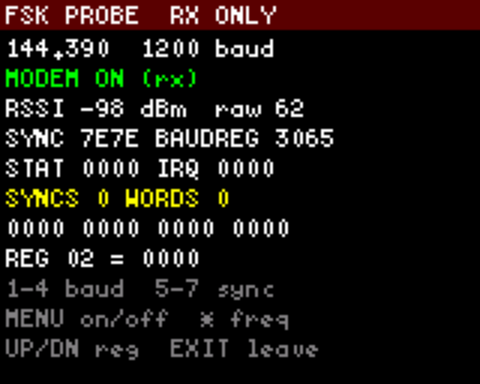
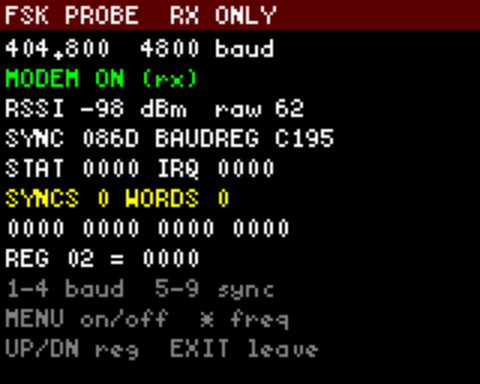
VFO entry limited to the receiver's range; SONDE group and channel; FSK PROBE in slot 8, preset for the RS41; AUDIT 39
- typed VFO frequencies outside 108-174 / 200-260 / 350-520 MHz are refused with a notice; 76-108 MHz points to the FM app
- SONDE group (7) and channels/sonde.csv (NWS Fort Worth, 404.800 MHz, receive-only)
- FSK PROBE replaces TEXT in launcher slot 8 (TEXT still built as an extra); starts on 404.800 MHz, 4800 baud,
  RS41 header sync in both bit orders
- AUDIT 39 also records that CI was red for nine pushes while locally built images were flashed

diff --git a/firmware/firmware-source/src/app/group_table.rs b/firmware/firmware-source/src/app/group_table.rs
@@ -13,8 +13,8 @@ pub(crate) struct ChanMode {
 pub(crate) const ALL: &[(u16, u16)] = &[(1, 1000)];
 
 /// In order of use to a ham. The index is the group's number: BAND then that digit selects it (0 = ALL; groups past 9
-/// have no digit). Slot ranges are the upstream channel plan's, plus 351-380 and 381-410 for the two new groups.
-pub(crate) const MODES: [ChanMode; 15] = [
+/// have no digit). Slot ranges are the upstream channel plan's, plus 351-380, 381-410 and 411-420 for the new groups.
+pub(crate) const MODES: [ChanMode; 16] = [
     ChanMode { name: "ALL", short: "ALL", ranges: ALL },
     ChanMode { name: "REPEATERS", short: "RPT", ranges: &[(234, 304), (327, 344)] },
     ChanMode { name: "SIMPLEX", short: "SMPLX", ranges: &[(351, 380)] },
@@ -22,6 +22,7 @@ pub(crate) const MODES: [ChanMode; 15] = [
     ChanMode { name: "FRS", short: "FRS", ranges: &[(305, 326)] },
     ChanMode { name: "MURS", short: "MURS", ranges: &[(345, 349)] },
     ChanMode { name: "SATELLITES", short: "SAT", ranges: &[(381, 410)] },
+    ChanMode { name: "SONDE", short: "SONDE", ranges: &[(411, 420)] },
     ChanMode { name: "WEATHER", short: "WX", ranges: &[(1, 7)] },
     ChanMode { name: "AIR TRAFFIC", short: "AIR", ranges: &[(168, 233)] },
     ChanMode { name: "RAILROAD", short: "RAIL", ranges: &[(158, 167)] },
@@ -105,6 +106,20 @@ pub(crate) fn band_name(freq_hz: u32) -> &'static str {
     ""
 }
 
+/// What the receiver covers (Hz, inclusive), from the radio's published ranges: the air band (AM), VHF, 1.25 m and
+/// UHF. The synthesizer tunes far wider (16-560 and 740-1120 MHz), but outside these the front end hears nothing.
+/// FM broadcast (76-108 MHz) is a separate tuner chip, reached through the FM app, not the VFO.
+pub(crate) const RX_BANDS: [(u32, u32); 3] = [
+    (108_000_000, 174_000_000),
+    (200_000_000, 260_000_000),
+    (350_000_000, 520_000_000),
+];
+pub(crate) const FM_BROADCAST: (u32, u32) = (76_000_000, 108_000_000);
+
+pub(crate) fn rx_allowed(freq_hz: u32) -> bool {
+    RX_BANDS.iter().any(|&(lo, hi)| (lo..=hi).contains(&freq_hz))
+}
+
 #[cfg(test)]
 mod tests {
     use super::*;
@@ -117,7 +132,9 @@ mod tests {
         assert_eq!(group_pos(1, 326), Some(72)); // printed 327, first of the second range
         assert_eq!(group_pos(1, 0), None);
         assert_eq!(group_pos(0, 233), Some(234)); // ALL: the printed number
-        assert_eq!(group_pos(7, 0), Some(1)); // WEATHER
+        assert_eq!(MODES[8].name, "WEATHER");
+        assert_eq!(group_pos(8, 0), Some(1)); // WEATHER
+        assert_eq!(group_pos(7, 410), Some(1)); // SONDE starts at printed 411
         assert_eq!(group_pos(2, 350), Some(1)); // SIMPLEX starts at printed 351
         assert_eq!(group_pos(6, 380), Some(1)); // SATELLITES starts at printed 381
     }
@@ -143,6 +160,16 @@ mod tests {
         assert_eq!(scan_band(300_250_000), (300_000_000, 301_000_000)); // no listed band: the megahertz it is in
         assert_eq!(band_name(146_520_000), "2M");
         assert_eq!(band_name(300_250_000), "");
+    }
+
+    #[test]
+    fn typed_vfo_frequencies_are_limited_to_what_the_receiver_covers() {
+        for ok in [118_000_000, 146_520_000, 223_500_000, 404_800_000, 446_000_000, 520_000_000] {
+            assert!(rx_allowed(ok), "{ok}");
+        }
+        for no in [16_000_000, 50_000_000, 100_100_000, 107_999_999, 300_000_000, 560_000_000, 900_000_000] {
+            assert!(!rx_allowed(no), "{no}");
+        }
     }
 }
 

diff --git a/firmware/firmware-source/apps/fskprobe/src/logic.rs b/firmware/firmware-source/apps/fskprobe/src/logic.rs
@@ -53,9 +53,20 @@ const PEEK: [u8; 14] = [
 ];
 
 /// Frequencies in Hz: APRS, 2 m calling, 70 cm calling, Horus 70 cm.
-const FREQS: [u32; 4] = [144_390_000, 146_520_000, 446_000_000, 434_714_000];
+/// 404.800 is the Fort Worth NWS radiosonde frequency (the owner's local launch site); the others are test signals.
+const FREQS: [u32; 5] = [404_800_000, 144_390_000, 146_520_000, 446_000_000, 434_714_000];
 const BAUDS: [u16; 4] = [450, 1200, 2400, 4800];
-const SYNCS: [u16; 3] = [0x7E7E, 0x2DD4, 0xAAAA];
+/// Sync word presets, as the two 16-bit halves written to the chip (keys 5-9). The last two are the first four bytes
+/// of the RS41 radiosonde frame header: on the air the bits are 00001000 01101101 01010011 10001000, which is 0x086D
+/// 0x5388 if the chip shifts each byte most-significant bit first and 0x10B6 0xCA11 if least-significant first.
+/// Which one the chip uses is one of the things this app is for.
+const SYNCS: [(u16, u16); 5] = [
+    (0x7E7E, 0x7E7E),
+    (0x2DD4, 0x2DD4),
+    (0xAAAA, 0xAAAA),
+    (0x086D, 0x5388),
+    (0x10B6, 0xCA11),
+];
 
 /// REG_72 (TONE2/FSK frequency control word) = baud * 10.32444 for a 13/26 MHz crystal, * 10.48576 for 12.8/19.2/25.6/38.4 MHz
 /// (datasheet). TEXT writes 4646 for 450 baud, which is exactly 450 * 10.32444, so a 13/26 MHz crystal is assumed.
@@ -109,9 +120,9 @@ pub fn entry(api: &Api, ev: AppEvent) -> AppResult {
 }
 
 const STATE_DEFAULT: State = State {
-    freq: 0,
-    baud: 1,
-    sync: 0,
+    freq: 0, // radiosonde frequency
+    baud: 3, // 4800: the RS41's speed
+    sync: 3, // RS41 header, most-significant bit first
     running: false,
     peek: 0,
     syncs: 0,
@@ -142,8 +153,8 @@ fn modem_on(api: &Api, s: &mut State) {
     w(api, R_GAIN, (1 << 7) | 96);
     w(api, R_BAUD, baud_reg(BAUDS[s.baud]));
     w(api, R_FSK, 0x0301);
-    w(api, R_SYNC1, SYNCS[s.sync]);
-    w(api, R_SYNC2, SYNCS[s.sync]);
+    w(api, R_SYNC1, SYNCS[s.sync].0);
+    w(api, R_SYNC2, SYNCS[s.sync].1);
     w(api, R_CRC, 0x5625);
     w(api, R_SIZE, 64u16 << 8);
     w(api, R_THRESH, (1 << 3) | 1);
@@ -200,11 +211,11 @@ fn key(api: &Api, id: u8, kind: u8) -> AppResult {
                 w(api, R_BAUD, baud_reg(BAUDS[s.baud]));
             }
         }
-        5..=7 => {
+        5..=9 => {
             s.sync = (id - 5) as usize;
             if s.running {
-                w(api, R_SYNC1, SYNCS[s.sync]);
-                w(api, R_SYNC2, SYNCS[s.sync]);
+                w(api, R_SYNC1, SYNCS[s.sync].0);
+                w(api, R_SYNC2, SYNCS[s.sync].1);
             }
         }
         _ => return AppResult::Continue,
@@ -267,7 +278,7 @@ fn draw(api: &Api, s: &mut State) {
 
     n = 0;
     n = put(&mut b, n, b"SYNC ");
-    n = put_hex(&mut b, n, SYNCS[s.sync]);
+    n = put_hex(&mut b, n, SYNCS[s.sync].0);
     n = put(&mut b, n, b" BAUDREG ");
     n = put_hex(&mut b, n, baud_reg(BAUDS[s.baud]));
     line(api, 4, &b[..n], WHITE);
@@ -303,7 +314,7 @@ fn draw(api: &Api, s: &mut State) {
     n = put_hex(&mut b, n, (api.rf_reg_read)(reg));
     line(api, 8, &b[..n], WHITE);
 
-    line(api, 9, b"1-4 baud  5-7 sync", GRAY);
+    line(api, 9, b"1-4 baud  5-9 sync", GRAY);
     line(api, 10, b"MENU on/off  * freq", GRAY);
     line(api, 11, b"UP/DN reg  EXIT leave", GRAY);
 }

diff --git a/firmware/firmware-source/src/app/side_ops.rs b/firmware/firmware-source/src/app/side_ops.rs
@@ -96,12 +96,25 @@ pub(super) fn commit_input(app: &mut App, syst: &mut SYST) {
             }
         }
         ChVfoMode::Vfo => {
-            let s = &mut app.sides[app.master];
-            s.rx_freq_hz = value * 1000;
-            s.auto_modulation();
-            s.refresh_cfg_freqs();
-            app.save_vfo();
-            sync_watching_to_master(app, syst);
+            // Only what the receiver covers. The synthesizer would tune almost anything, which looked as if the
+            // radio could receive there; FM broadcast is a different tuner, reached through the FM app.
+            let hz = value.saturating_mul(1000);
+            if super::group_table::rx_allowed(hz) {
+                let s = &mut app.sides[app.master];
+                s.rx_freq_hz = hz;
+                s.auto_modulation();
+                s.refresh_cfg_freqs();
+                app.save_vfo();
+                sync_watching_to_master(app, syst);
+            } else {
+                let fm = super::group_table::FM_BROADCAST;
+                app.notice_kind = if (fm.0..fm.1).contains(&hz) {
+                    super::NOTICE_FM_BROADCAST
+                } else {
+                    super::NOTICE_OUT_OF_RANGE
+                };
+                app.no_channels_ticks = NO_CHANNELS_HOLD_TICKS;
+            }
         }
     }
     app.input.clear();
@@ -132,6 +145,7 @@ pub(super) fn toggle_vfo_channel(app: &mut App, syst: &mut SYST) {
             if let Some(num) = num {
                 load_channel_num(app, num);
             } else {
+                app.notice_kind = super::NOTICE_NO_CHANNELS;
                 app.no_channels_ticks = NO_CHANNELS_HOLD_TICKS;
             }
         }
@@ -215,6 +229,7 @@ pub(super) fn refresh_channel_display(app: &mut App, num: u16) {
                 app.sides[i].load_channel(next, &ch);
             } else {
                 app.sides[i].restore_vfo_from_backup();
+                app.notice_kind = super::NOTICE_NO_CHANNELS;
                 app.no_channels_ticks = NO_CHANNELS_HOLD_TICKS;
             }
         } else {

diff --git a/firmware/firmware-source/src/app/mod.rs b/firmware/firmware-source/src/app/mod.rs
@@ -1,3 +1,8 @@
+/// Amber notices on the main screen (`App::notice_kind`).
+pub(crate) const NOTICE_NO_CHANNELS: u8 = 0;
+pub(crate) const NOTICE_OUT_OF_RANGE: u8 = 1;
+pub(crate) const NOTICE_FM_BROADCAST: u8 = 2;
+
 /// Reasons a PTT press is refused (`App::tx_block`).
 pub(crate) const TX_BLOCK_INHIBIT: u8 = 1;
 pub(crate) const TX_BLOCK_RX_ONLY: u8 = 2;
@@ -160,6 +165,8 @@ pub struct App<'a> {
     /// The running app was opened from the APPS list (EXIT goes back to it) and not by a key (EXIT goes to the
     /// main screen).
     app_from_menu: bool,
+    /// What the amber notice on the main screen says while `no_channels_ticks` runs (`NOTICE_*`).
+    notice_kind: u8,
     dual_standby: bool,
     dual_hold_ticks: u16,
     tot_ticks: u16,
@@ -366,6 +373,7 @@ impl<'a> App<'a> {
             details: [[0; flash_map::addr::CHAN_DETAIL_LEN]; 2],
             detail_of: [u16::MAX; 2],
             app_from_menu: false,
+            notice_kind: 0,
             flashlight,
             dual_standby: settings.dual_standby,
             dual_hold_ticks: DUAL_STANDBY_HOLD_TICKS,
@@ -842,6 +850,9 @@ impl<'a> App<'a> {
 
     pub fn no_channels_notice(&self) -> bool {
         self.no_channels_ticks > 0
+    }
+    pub fn notice_kind(&self) -> u8 {
+        self.notice_kind
     }
 
     pub fn poll_blink(&mut self) {

diff --git a/firmware/tools/build_release.py b/firmware/tools/build_release.py
@@ -11,8 +11,11 @@ import json, os, subprocess, sys
 from provenance import PACKAGES, SRC
 
 LAYOUT = ["settings.app", "chanmgr.app", "searchqt.app", "spectrum.app", "bandsweep.app",
-          "foxhunt.app", "rptfinder.app", "text.app", "fm.app"]          # launcher slots 1-9, as setup_radio.py
-EXTRAS = {"hamtools.app": ("HAM TOOLS", ["apps/hamtools"]), "fskprobe.app": ("FSK PROBE", ["apps/fskprobe"])}
+          "foxhunt.app", "rptfinder.app", "fskprobe.app", "fm.app"]      # launcher slots 1-9
+# Slot 8 was TEXT (which transmits acknowledgements on its own and needs a second radio); it is FSK PROBE while the
+# radio's modem is being characterised (AUDIT 39). TEXT is still built, as an extra.
+EXTRAS = {"hamtools.app": ("HAM TOOLS", ["apps/hamtools"]), "text.app": PACKAGES["text.app"]}
+PACKAGES = dict(PACKAGES, **{"fskprobe.app": ("FSK PROBE", ["apps/fskprobe"])})
 
 
 def main():

diff --git a/firmware/firmware-source/src/ui/standby.rs b/firmware/firmware-source/src/ui/standby.rs
@@ -283,7 +283,11 @@ where
         draw_overlay(lcd, why, ALERT);
     } else if app.no_channels_notice() {
         // Name the group: with a group other than ALL selected, channels outside its number range are skipped.
-        if app.chan_mode_index() == 0 {
+        if app.notice_kind() == app::NOTICE_OUT_OF_RANGE {
+            draw_overlay(lcd, "OUT OF RX RANGE", AMBER);
+        } else if app.notice_kind() == app::NOTICE_FM_BROADCAST {
+            draw_overlay(lcd, "BROADCAST: USE FM APP", AMBER);
+        } else if app.chan_mode_index() == 0 {
             draw_overlay(lcd, "NO CHANNELS", AMBER);
         } else {
             let mut label: TextBuf<16> = TextBuf::new();

diff --git a/firmware/firmware-source/src/app/modes.rs b/firmware/firmware-source/src/app/modes.rs
@@ -132,7 +132,10 @@ fn select(app: &mut App, syst: &mut SYST, index: usize, then_scan: bool) {
             side_ops::load_channel_num(app, num);
             app.save_channel_state();
         }
-        None => app.no_channels_ticks = NO_CHANNELS_HOLD_TICKS,
+        None => {
+            app.notice_kind = super::NOTICE_NO_CHANNELS;
+            app.no_channels_ticks = NO_CHANNELS_HOLD_TICKS;
+        }
     }
     app.sync_watching_to_master(syst);
     play_mode_cue(app, syst);

diff --git a/firmware/tests/test_channel_plan.py b/firmware/tests/test_channel_plan.py
@@ -149,7 +149,8 @@ class Groups(unittest.TestCase):
         self.assertEqual(g["FED & GOV"][1], "FED")
         self.assertEqual(g["SIMPLEX"][2], [(351, 380)])
         self.assertEqual(g["SATELLITES"][1:], ("SAT", [(381, 410)]))
-        self.assertEqual(len(g), 15)
+        self.assertEqual(g["SONDE"][2], [(411, 420)])
+        self.assertEqual(len(g), 16)
 
     def test_unparseable_table_fails_clearly(self):
         with tempfile.TemporaryDirectory() as d:

diff --git a/AUDIT.md b/AUDIT.md
@@ -57,4 +57,5 @@ Tools: `firmware/tools/verify_release.py` (offline release gate), `.github/workf
 | 36 | **Channel groups reordered by use to a ham and numbered; SIMPLEX and SATELLITES added (built, not yet on the radio).** Order: 0 ALL, 1 REPEATERS, 2 SIMPLEX, 3 GMRS, 4 FRS, 5 MURS, 6 SATELLITES, 7 WEATHER, 8 AIR TRAFFIC, 9 RAILROAD, then POLICE FIRE EMS, FED & GOV, UTILITIES, FRS GMRS MURS, CUSTOM RANGE. The group menu numbers its rows and BAND then a digit selects the group; CHAN MGR's title is `GROUP 1: REPEATERS`. New slot ranges 351-380 (SIMPLEX) and 381-410 (SATELLITES); the others are unchanged, so channels already on the radio keep their groups. The stored group index changes meaning (the radio was on REPEATERS = old 7, which is now WEATHER): pick the group again once. `channels/simplex.csv`: the national FM calling frequencies (146.520, 223.500, 446.000), the ARRL band-plan 2 m simplex channels, and 144.390 APRS receive-only; the two calling channels moved out of `repeaters.csv`. `channels/satellites.csv`: ISS repeater, SO-50 (with its 74.4 Hz arming channel) and AO-123, five Doppler steps each on the 70 cm side, plus ISS packet and crew downlink (receive-only), AO-91 and PO-101; frequencies and tones from AMSAT's FM satellite summary (page dated 2026-10-31). `channel_plan.py` now honours CHIRP `split` (Offset = transmit frequency), needed for cross-band satellites. 114 channels build. | Open: unseen on the radio; satellite status changes (AO-91 sunlit only, PO-101 by schedule and failing, per AMSAT) and nothing here has been tried on a pass; the open firmware's handling of a channel whose TX is on another band is untested on hardware; 2 m simplex channel spacing varies by region |
 | 37 | **Fifth flash (`54508f7`) and a data-loss bug in `restore_backup.py`, found on the radio and fixed (2026-11-11).** Flash, calibration (identical), CHAN MGR and the extras table were fine. The channel load reported `FINAL VERIFY FAILED at channel 233` and left the radio without 44 channels it should have had (among them K5RWK and other repeaters, FRS, GMRS and MURS). **Cause:** the firmware erases a channel's whole 4 KB flash sector (128 channels) the first time a programming session writes into it and then stores only what it is sent (`storage.rs write_channel`); the tool sent only the records that differed, so unchanged channels sharing a sector with a changed one were erased. The first load of the evening passed only because nearly every stored channel in each touched sector was being rewritten. The fake radio stored single records and never erased, so 14 tests passed against behaviour the hardware does not have. **Fix:** the tool writes every channel the image has in any sector it touches; the fake radio now erases a sector on the first write of a session, and the previous tool fails against it. The radio was repaired with the fixed tool: 44 records restored (92 written), all 1000 verified through the port; the state before the repair is saved. Nothing was lost: the image on the host was complete. Also loaded in this pass: the reordered repeaters (K5RWK, W5FC, W5NGU, K5PRK, W5EBQ first), SIMPLEX and SATELLITES: 115 channels. | Open: the tool's per-record rollback message ("putting the old contents back") is not accurate under sector erase; an interrupted load leaves a touched sector partly written until the tool is run again (it is safe to re-run). Third time tonight that a fake or the simulator was more forgiving than the hardware (app load address, list backdrop, sector erase): each fake should be checked against the firmware source it stands in for |
 | 38 | **Each side (A and B) has its own channel group (found on the radio; built, not yet flashed).** The group was one value for the whole radio, so after choosing a group on the top side, switching to the bottom side with A/B and scanning ran the top side's group. Now the group belongs to the side it was chosen on: A/B brings that side's group into force for stepping, typed channel numbers and scanning, each side's channel number is shown relative to its own group, and both are saved (side B in byte 12 of the record that already holds side A's). | Open: unseen until flashed. Dual watch and the code that repairs a side after its channel is deleted still consult only the active side's group |
+| 39 | **CI was red for nine pushes and I flashed locally built images meanwhile; VFO range; SONDE group; FSK PROBE in the launcher (2026-11-11/12).** (1) `build_core.sh`'s arena check (row 31) called `rust-nm`, which CI has on PATH only in the overlay step, so the `verify` job failed from `ef37606` to `9177d71` and nobody looked. The cores flashed in that window (`ef37606`, `7c9ea33`, `54508f7`, `cf9408d`) were built in the local amd64 container; each matched its pin, but the pin came from the same local build. This broke the rule to flash only CI-built images. Fixed in `8d8cb15` (the script also accepts `llvm-nm`; the step adds the shim to PATH). (2) Sixth flash, `cf9408d`: per-side channel groups confirmed by the owner. (3) Found on the radio: a typed VFO frequency was accepted anywhere the synthesizer tunes (16-560, 740-1120 MHz), as if the radio could receive there. Typed frequencies are now limited to 108-174, 200-260 and 350-520 MHz (the radio's published receive ranges; the air band still switches to AM); anything else shows `OUT OF RX RANGE`, and 76-108 MHz shows `BROADCAST: USE FM APP`, because FM broadcast is a separate tuner chip. (4) New group SONDE (7, slots 411-420; WEATHER, AIR TRAFFIC and RAILROAD move to 8, 9 and no digit) with `channels/sonde.csv`: the NWS Fort Worth radiosonde, 404.800 MHz, receive-only. (5) FSK PROBE takes launcher slot 8 from TEXT (still built as an extra) and now starts on 404.800 MHz at 4800 baud with the RS41 frame header as its sync word, in both bit orders (keys 8 and 9). | Open: the receive ranges are from the published specification, not measured on this radio; UP/DOWN and scanning can still step outside them; the RS41 sync bytes are from memory of the public decoders and unverified against a recording; whether this chip's modem can lock to an RS41 at all is the open question FSK PROBE exists to answer |
 
